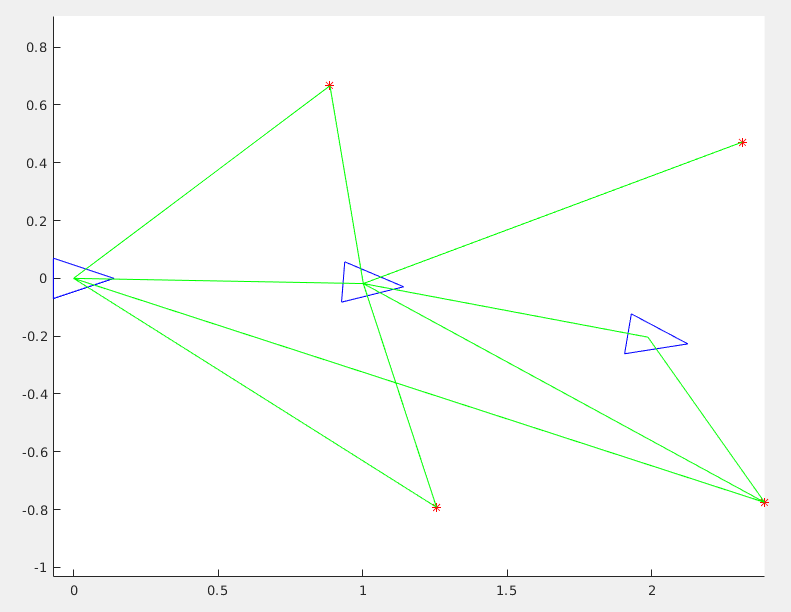
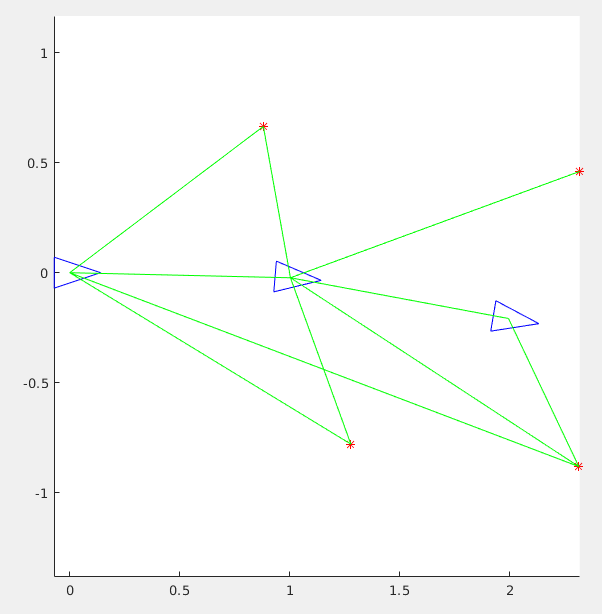
commit final

diff --git a/Codi/slam.m b/Codi/slam.m
@@ -7,7 +7,7 @@ factors{1+0} = struct(...
 factors{1+1} = struct(...
     'type' , 'motion',...
     'measurement', [1.0;0.0;-5*pi/180],... 
-    'covariance', diag([1e-4,1e-4,(0.5*pi/180)*(0.5*pi/180)]),...
+    'covariance', diag([3e-4,3e-4,(0.5*pi/180)*(0.5*pi/180)]),...
     'index',[0,1]);
 
 % li diem que ens movem 1 m i 5 graus i li indiquem que aquest factor 2 està
@@ -18,57 +18,57 @@ factors{1+1} = struct(...
 factors{1+2} = struct(...
    'type' , 'motion',...
     'measurement', [1.0;-0.1;-5*pi/180],... 
-    'covariance', diag([1e-2,1e-2,(2*pi/180)*(2*pi/180)]),...
+    'covariance', diag([3e-4,3e-4,(2*pi/180)*(2*pi/180)]),...
     'index',[1,2]);
 
 factors{1+3} = struct(...
     'type' , 'lmk',...
     'measurement', [1.1;30*pi/180],... 
-    'covariance', diag([1e-4;(5*pi/180)*(5*pi/180)]),...
+    'covariance', diag([1e-4;(10*pi/180)*(10*pi/180)]),...
     'index',[0,3]);
 % li diem que el 3 esta a 40 graus i a 1.2 m del 0
 
 factors{1+4} = struct(...
     'type' , 'lmk',...
     'measurement', [0.7;80*pi/180],... 
-    'covariance', diag([1e-4;(5*pi/180)*(5*pi/180)]),...
+    'covariance', diag([1e-4;(10*pi/180)*(10*pi/180)]),...
     'index',[1,3]);
 
 
 factors{1+5} = struct(...
     'type' , 'lmk',...
     'measurement', [1.4;25*pi/180],... 
-    'covariance', diag([1e-4;(5*pi/180)*(5*pi/180)]),...
+    'covariance', diag([1e-4;(10*pi/180)*(10*pi/180)]),...
     'index',[1,4]);
 
 factors{1+6} = struct(...
     'type' , 'lmk',...
     'measurement', [1.5;-60*pi/180],... 
-    'covariance', diag([1e-4;(5*pi/180)*(5*pi/180)]),...
+    'covariance', diag([1e-4;(10*pi/180)*(10*pi/180)]),...
     'index',[0,5]);
 
 factors{1+7} = struct(...
     'type' , 'lmk',...
     'measurement', [0.8;-90*pi/180],... 
-    'covariance', diag([1e-4;(5*pi/180)*(5*pi/180)]),...
+    'covariance', diag([1e-4;(10*pi/180)*(10*pi/180)]),...
     'index',[1,5]);
 
 factors{1+8} = struct(...
     'type' , 'lmk',...
     'measurement', [2.4;-15*pi/180],... 
-    'covariance', diag([1e-2;(5*pi/180)*(5*pi/180)]),...
+    'covariance', diag([3e-4;(10*pi/180)*(10*pi/180)]),...
     'index',[0,6]);
 
 factors{1+9} = struct(...
     'type' , 'lmk',...
     'measurement', [1.7;-25*pi/180],... 
-    'covariance', diag([1e-2;(5*pi/180)*(5*pi/180)]),...
+    'covariance', diag([3e-4;(10*pi/180)*(10*pi/180)]),...
     'index',[1,6]);
 
 factors{1+10} = struct(...
     'type' , 'lmk',...
-    'measurement', [0.7;-45*pi/180],... 
-    'covariance', diag([1e-4;(5*pi/180)*(5*pi/180)]),...
+    'measurement', [0.7;-60*pi/180],... 
+    'covariance', diag([3e-4;(10*pi/180)*(10*pi/180)]),...
     'index',[2,6]);
 
 states{1+0} = struct(...

diff --git a/README.md b/README.md
@@ -10,7 +10,7 @@ Encara s'han d'ajustar les distàncies correctament respecte al dibuix inicial.
 
 ## Ajustament de distàncies
 
-He ajustat les distàncies i angles dels factors segons el mapa. Les covariances les he mantingut iguals a totes les mesures (factors), tant de moviment com de landmark (al principi les que vam posar a classe)
+He ajustat les distàncies i angles dels factors segons el mapa. Les covariances les he mantingut iguals a totes les mesures (factors), tant de moviment com de landmark. Per als landmarks de distància he posat una covariança d'1cm, degut a que he comès aquests errors expressament (no he mesurat al mil·límetre la distància, si no que he fet mesures més aproximades). Per a l'angle he posat una covariança 10 graus, ja que he comès les mateixes imprecisions que amb la distància. Les covariances de moviment les he deixat amb els mateixos valors que vam posar a classe.
 
 Covariances moviment:
 
@@ -24,22 +24,22 @@ Covariances Landmarks:
 
 distància: 1cm
 
-angle: 5º
+angle: 10º
 
 El resultat és el següent:
 
 ![alt text](Imatges/i2.png)
 
-Veiem que l'estat 2 queda una mica allunyat de la posició on hauria d'estar, veiem que la mesura 6, al tenir una covariança petita estreny aquesta última part del sistema cap a on creu que hauria d'estar.
+Veiem que l'estat 2 queda una mica allunyat de la posició on hauria d'estar, veiem que la mesura 6, al tenir una covariança petita estreny aquesta última part del sistema cap a on creu que hauria d'estar. També les covariances en x i y dels factors de moviment són bastant grans (10cm).
 
 
 ## Ajustament de covariances
 
-Per tal d'ajustar aquestes posicions, he cregut convenient canviar la covariança dels estats 8 i 9 a 10 cm, degut a que els sensors làser tenen més imprecisió en distància, per tant ens creiem més la distància més petita, que seria la del factor 10 (1cm de covariança); les altres les he deixat igual (angle) degut a que els sensors làser tenen molta precisió en angle. El resultat final és el següent:
+Per tal d'ajustar millor el mapa, he variat les covariances en distància dels factors 8 i 9 a 3cm, degut a que és més probable que hagi fet més imprecisions en les mesures amb més distància. Les covariances en angle les he deixat igual com estaven. He incrementat la precisió de les mesures de moviment canviant la covariança en x i y a 3cm, per tal de que aquest estat 2 que ha quedat més avall sigui més restrictiu (ens creiem al final més aquesta mesura que no pas la mesura del landmark 6). El resultat final és aquest:
 
 ![alt text](Imatges/resultat.png)
 
-La solució s'adjusta bastant bé al mapa.
+La solució s'adjusta bastant bé al mapa inicial que teníem. El landmark 6 potser queda una mica més amunt però en general és una bona solució.
 
 
 
